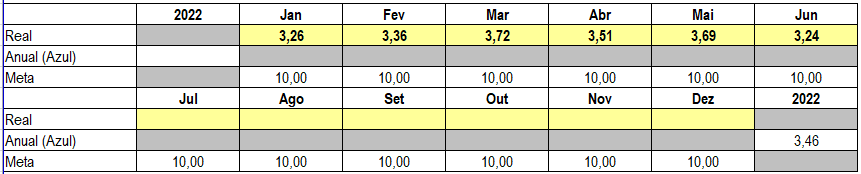
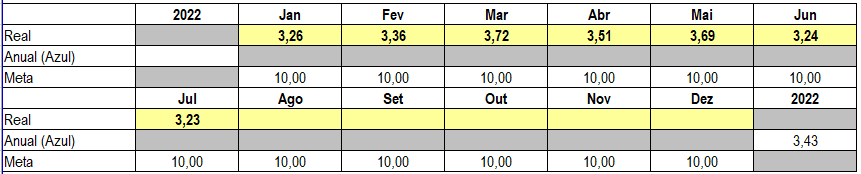
Fechamento Indicadores Julho
Alteração de grafico de indicadores com o fechamento de julho

diff --git a/indic/indice-vendas.html b/indic/indice-vendas.html
@@ -30,7 +30,7 @@
                 <div class="row mark">
                     <div class="col status centro">
                         <p class="font-weight-bold">Status Mensal</p>
-                        <img src="../imagens/indicadores-satisfatorio.png">
+                        <img src="../imagens/triste.png">
                     </div>
                     <div class="col mb-4">
                         <h4 class="mt-4" style="text-align: center">Indicadores de Qualidade</h4>

diff --git a/indic/reclamacao-clientes.html b/indic/reclamacao-clientes.html
@@ -35,7 +35,7 @@
           <div class="row mark">
             <div class="col status centro">
               <p class="font-weight-bold">Status Mensal</p>
-              <img src="../imagens/indicadores-insatisfatorio.png" />
+              <img src="../imagens/indicadores-satisfatorio.png" />
             </div>
             <div class="col mb-4">
               <h4 class="mt-4" style="text-align: center">

diff --git a/indic/tempo-pedido-consignado.html b/indic/tempo-pedido-consignado.html
@@ -35,7 +35,7 @@
           <div class="row mark">
             <div class="col status centro">
               <p class="font-weight-bold">Status Mensal</p>
-              <img src="../imagens/indicadores-ideal.png" />
+              <img src="../imagens/indicadores-insatisfatorio.png" />
             </div>
             <div class="col mb-4">
               <h4 class="mt-4" style="text-align: center">
